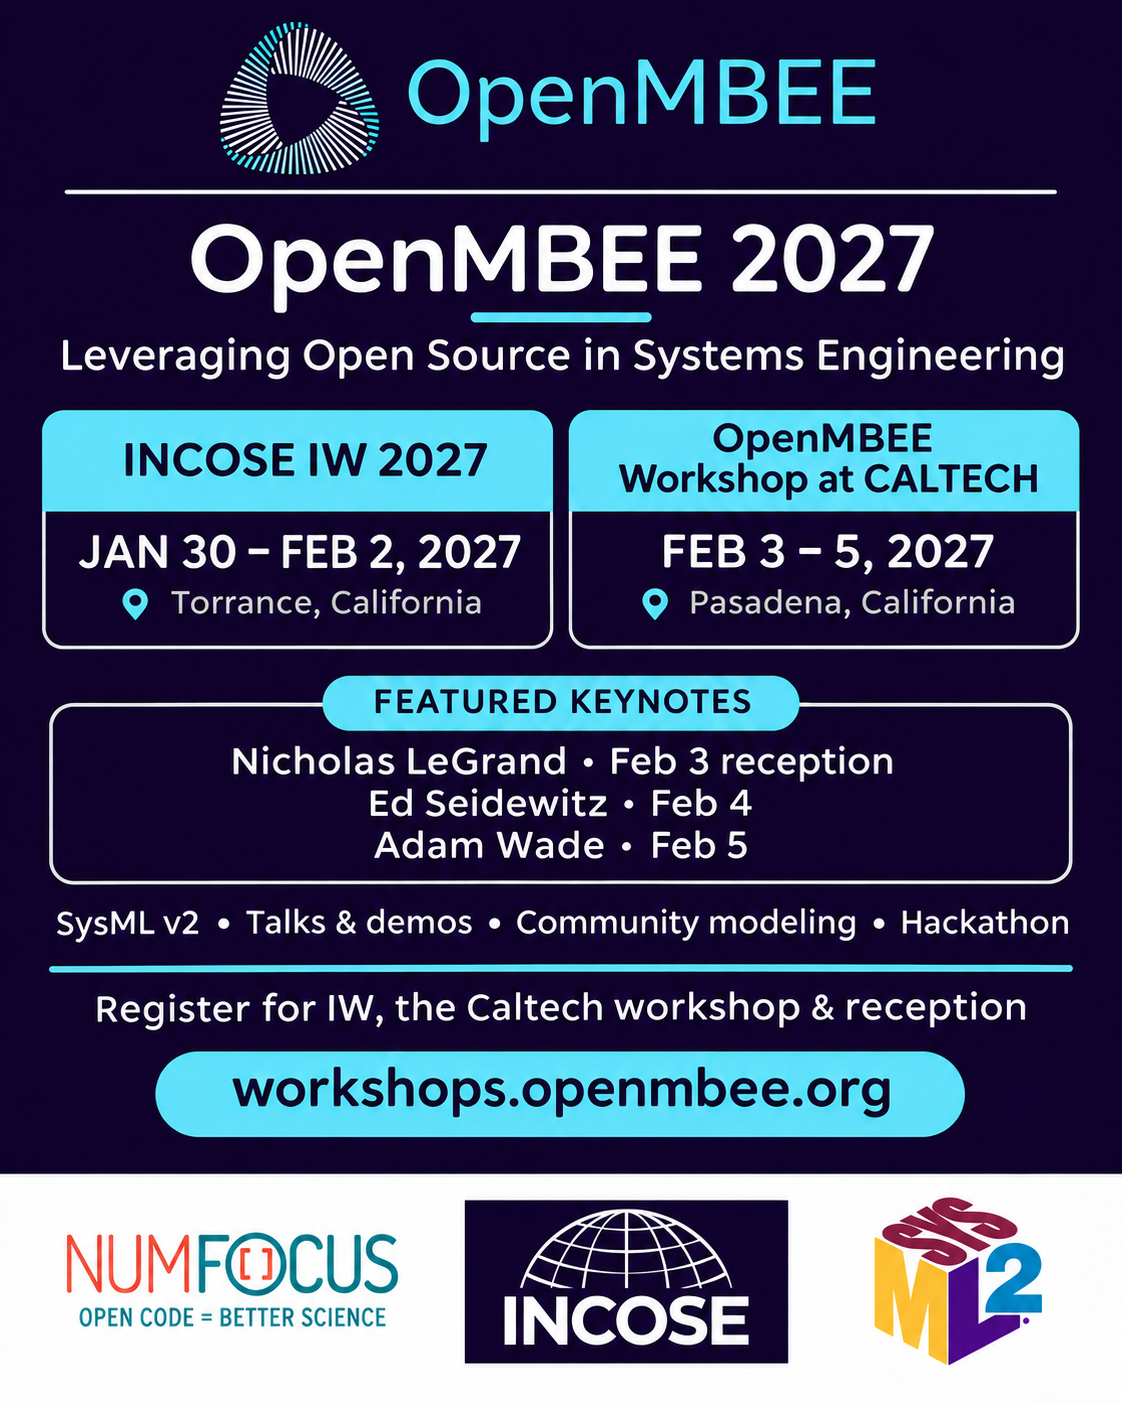
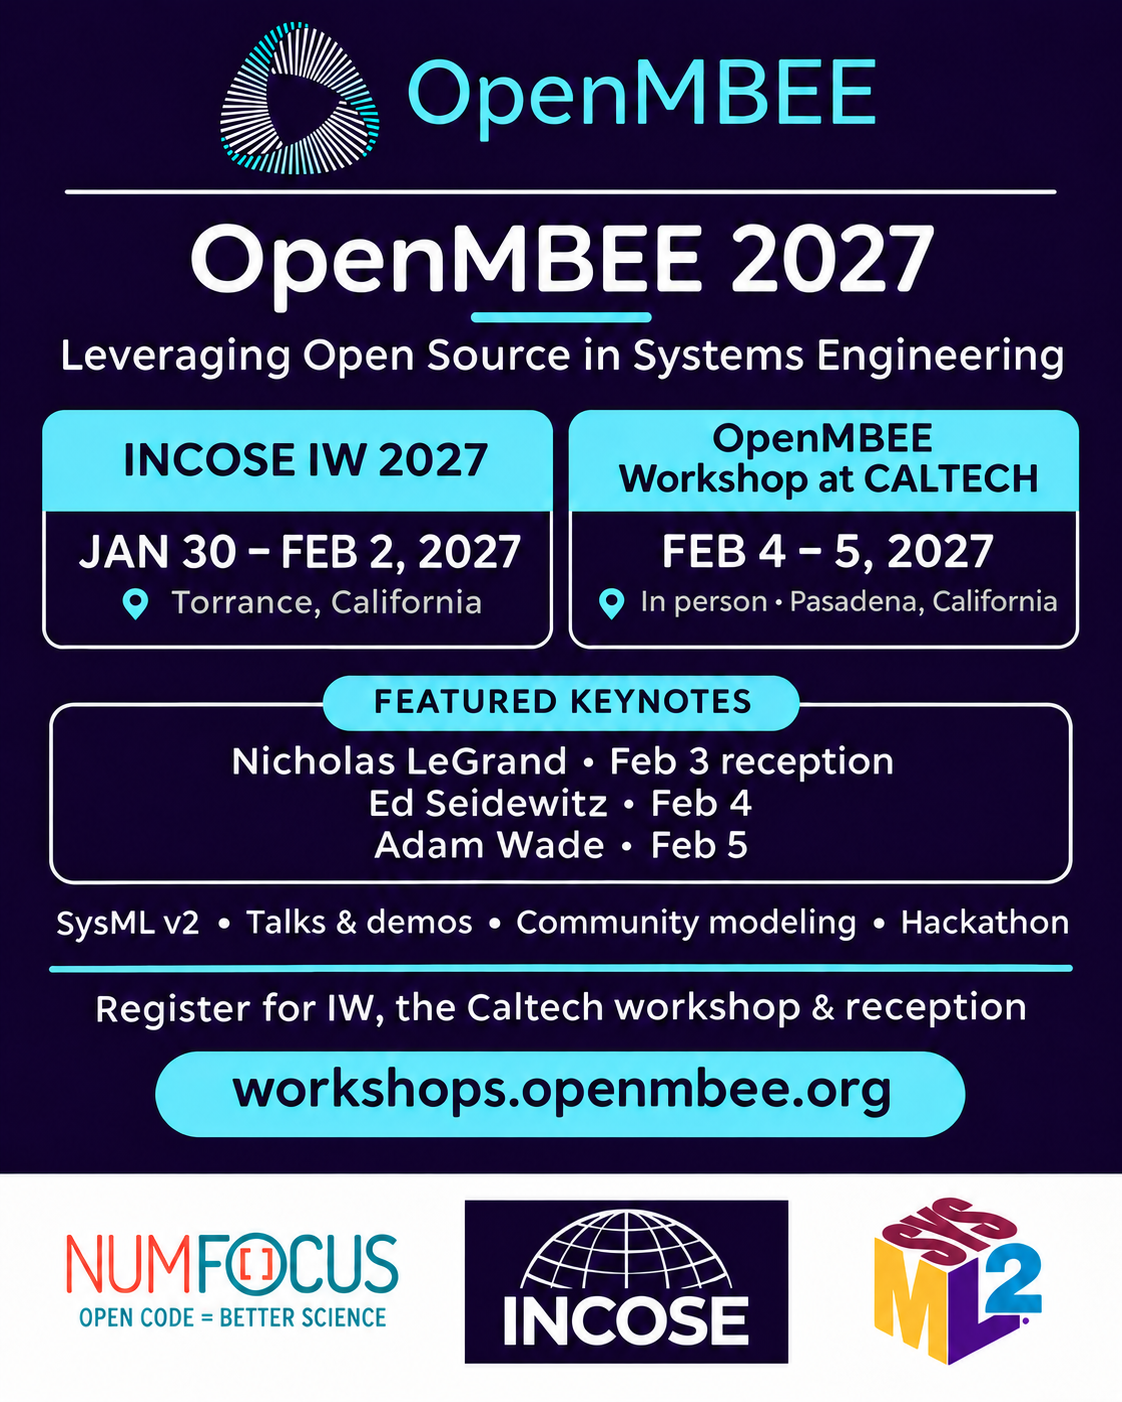
Clarify that the Caltech workshop is in person

diff --git a/index.html b/index.html
@@ -4,7 +4,7 @@
 <meta charset="UTF-8">
 <meta name="viewport" content="width=device-width, initial-scale=1, viewport-fit=cover">
 <title>OpenMBEE Workshop 2027 — Registration and call for participation open</title>
-<meta name="description" content="OpenMBEE Workshops 2027: sessions at INCOSE IW in Torrance, a February 3 reception at JPL, and the February 4–5 Caltech workshop in Pasadena.">
+<meta name="description" content="OpenMBEE Workshops 2027: sessions at INCOSE IW in Torrance, a February 3 reception at JPL, and the February 4–5 in-person workshop at Caltech in Pasadena.">
 <link rel="icon" href="brand/favicon.svg" type="image/svg+xml">
 <link rel="preconnect" href="https://fonts.googleapis.com">
 <link rel="preconnect" href="https://fonts.gstatic.com" crossorigin>
@@ -352,7 +352,7 @@
         <div class="cell">
           <p class="event-date mono">Feb 4 – 5</p>
           <p class="event-title"><a href="caltech-program.html">OpenMBEE Workshop 2027</a></p>
-          <p class="event-place">Caltech, Pasadena</p>
+          <p class="event-place">In person at Caltech, Pasadena</p>
           <p class="event-place">Opening reception February 3 at JPL</p>
           <p class="registration-link"><a href="https://forms.gle/PBHnLteSZcqWZSSEA" target="_blank" rel="noopener noreferrer">Register to OpenMBEE Workshop at CALTECH</a></p>
           <p class="registration-link"><a href="https://forms.gle/hupXadCrkBWYFYsJ6" target="_blank" rel="noopener noreferrer">Register for OpenMBEE reception (location JPL Von Karman)</a></p>

diff --git a/caltech-program.html b/caltech-program.html
@@ -4,7 +4,7 @@
 <meta charset="UTF-8">
 <meta name="viewport" content="width=device-width, initial-scale=1, viewport-fit=cover">
 <title>Program — OpenMBEE Workshop 2027 at Caltech</title>
-<meta name="description" content="OpenMBEE Workshop highlights and registration: February 4–5, 2027 at Caltech, with a February 3 opening reception at JPL. View the detailed program on the workshop wiki.">
+<meta name="description" content="OpenMBEE Workshop highlights and registration: in person at Caltech on February 4–5, 2027, with a February 3 opening reception at JPL. View the detailed program on the workshop wiki.">
 <link rel="icon" href="brand/favicon.svg" type="image/svg+xml">
 <link rel="preconnect" href="https://fonts.googleapis.com">
 <link rel="preconnect" href="https://fonts.gstatic.com" crossorigin>
@@ -299,7 +299,7 @@
       </div>
       <p class="event-name">Leveraging Open Source in Systems Engineering</p>
       <h1 class="title">OpenMBEE Workshop 2027 program</h1>
-      <p class="where-when">February 4 – 5, 2027 <span>at Caltech, Pasadena, California</span></p>
+      <p class="where-when">February 4 – 5, 2027 <span>· In person at Caltech, Pasadena, California</span></p>
       <p class="opening-evening">Opening reception February 3 at JPL, starting at 6:00 PM PST; keynote at 6:30 PM PST.</p>
     </header>
 
